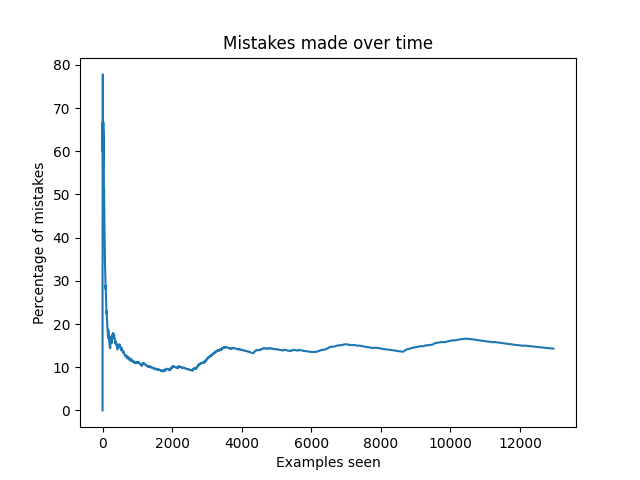
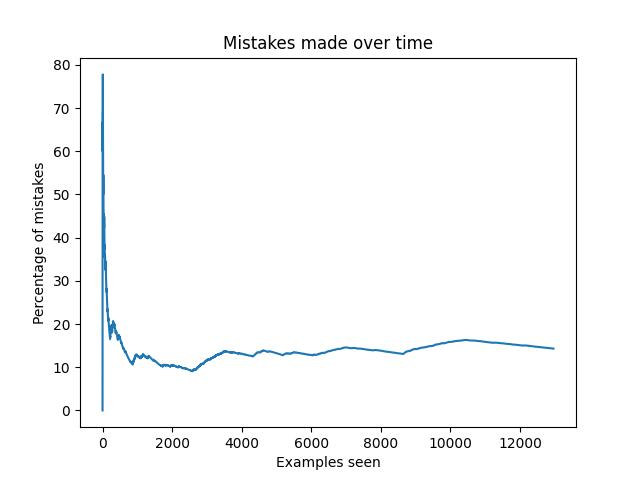
need to check teacher2

Changed region(s): [[0.3125, 0.6875, 0.7812, 0.75], [0.1562, 0.5625, 0.3125, 0.7812]]

diff --git a/feedbackModelWithSplittedData.py b/feedbackModelWithSplittedData.py
@@ -78,14 +78,15 @@ class feedbackModel:
 
         if self.default_explanation is None:
             raise ValueError("The model hasn't been fitted yet")
+
         prediction = np.empty(self.X_test.shape[0], dtype=np.array([self.default_label]).dtype)
         for i in range(self.X_test.shape[0]):
-            # for generating the graph
-            self.mistakes_made.append(self.num_of_mistakes)
-
             prediction[i] = self.__predict(self.X_test[i])[0]
             if prediction[i] != self.y_test[i]:
                 self.num_of_mistakes += 1
+
+            # for generating the graph
+            self.mistakes_made.append(self.num_of_mistakes)
 
         print("\n-------------------- printing list of laws --------------------\n")
         for law in self.laws:
@@ -98,7 +99,7 @@ class feedbackModel:
 
         num_of_example = self.y_test.shape[0] + self.y_train.shape[0]
         print(f"\npercentage of mistake on the entire data set: {self.num_of_mistakes} / {num_of_example} ="
-              f" {(self.num_of_mistakes / num_of_example) * 100} %")
+              f" {(self.num_of_mistakes / num_of_example) * 100}%")
         examples_seen = [i + 1 for i in range(num_of_example)]
 
         # calculate the percentage of mistakes made

diff --git a/feedbackModel.py b/feedbackModel.py
@@ -73,13 +73,14 @@ class feedbackModel:
             print(f"law-> label = {law.getLabel()}\n"
                   f"      features = {law.getFeatures()}\n"
                   f"      explanation =  {law.getExplanation()}\n")
+
         for p, l in zip(prediction_list, y):
             answer = "RIGHT" if p == l else "WRONG"
             print(f"prediction: {p},\ttrue label: {l}\t--> {answer}")
 
         num_of_example = y.shape[0]
         print(f"\npercentage of mistake on the entire data set: {self.num_of_mistakes} / {num_of_example} ="
-              f" {(self.num_of_mistakes / num_of_example) * 100} %")
+              f" {(self.num_of_mistakes / num_of_example) * 100}%")
 
         examples_seen = [i + 1 for i in range(num_of_example)]
 

diff --git a/main.py b/main.py
@@ -16,7 +16,7 @@ if __name__ == "__main__":
 
     without_splitting_data = True
     # # uncomment for splitted data run
-    # uncomment THIS line: # from TeacherWithSplittedData import Teacher from Teacher1, Teacher2
+    # # uncomment THIS line: # from TeacherWithSplittedData import Teacher from Teacher1, Teacher2
     # without_splitting_data = False
 
     if without_splitting_data:
